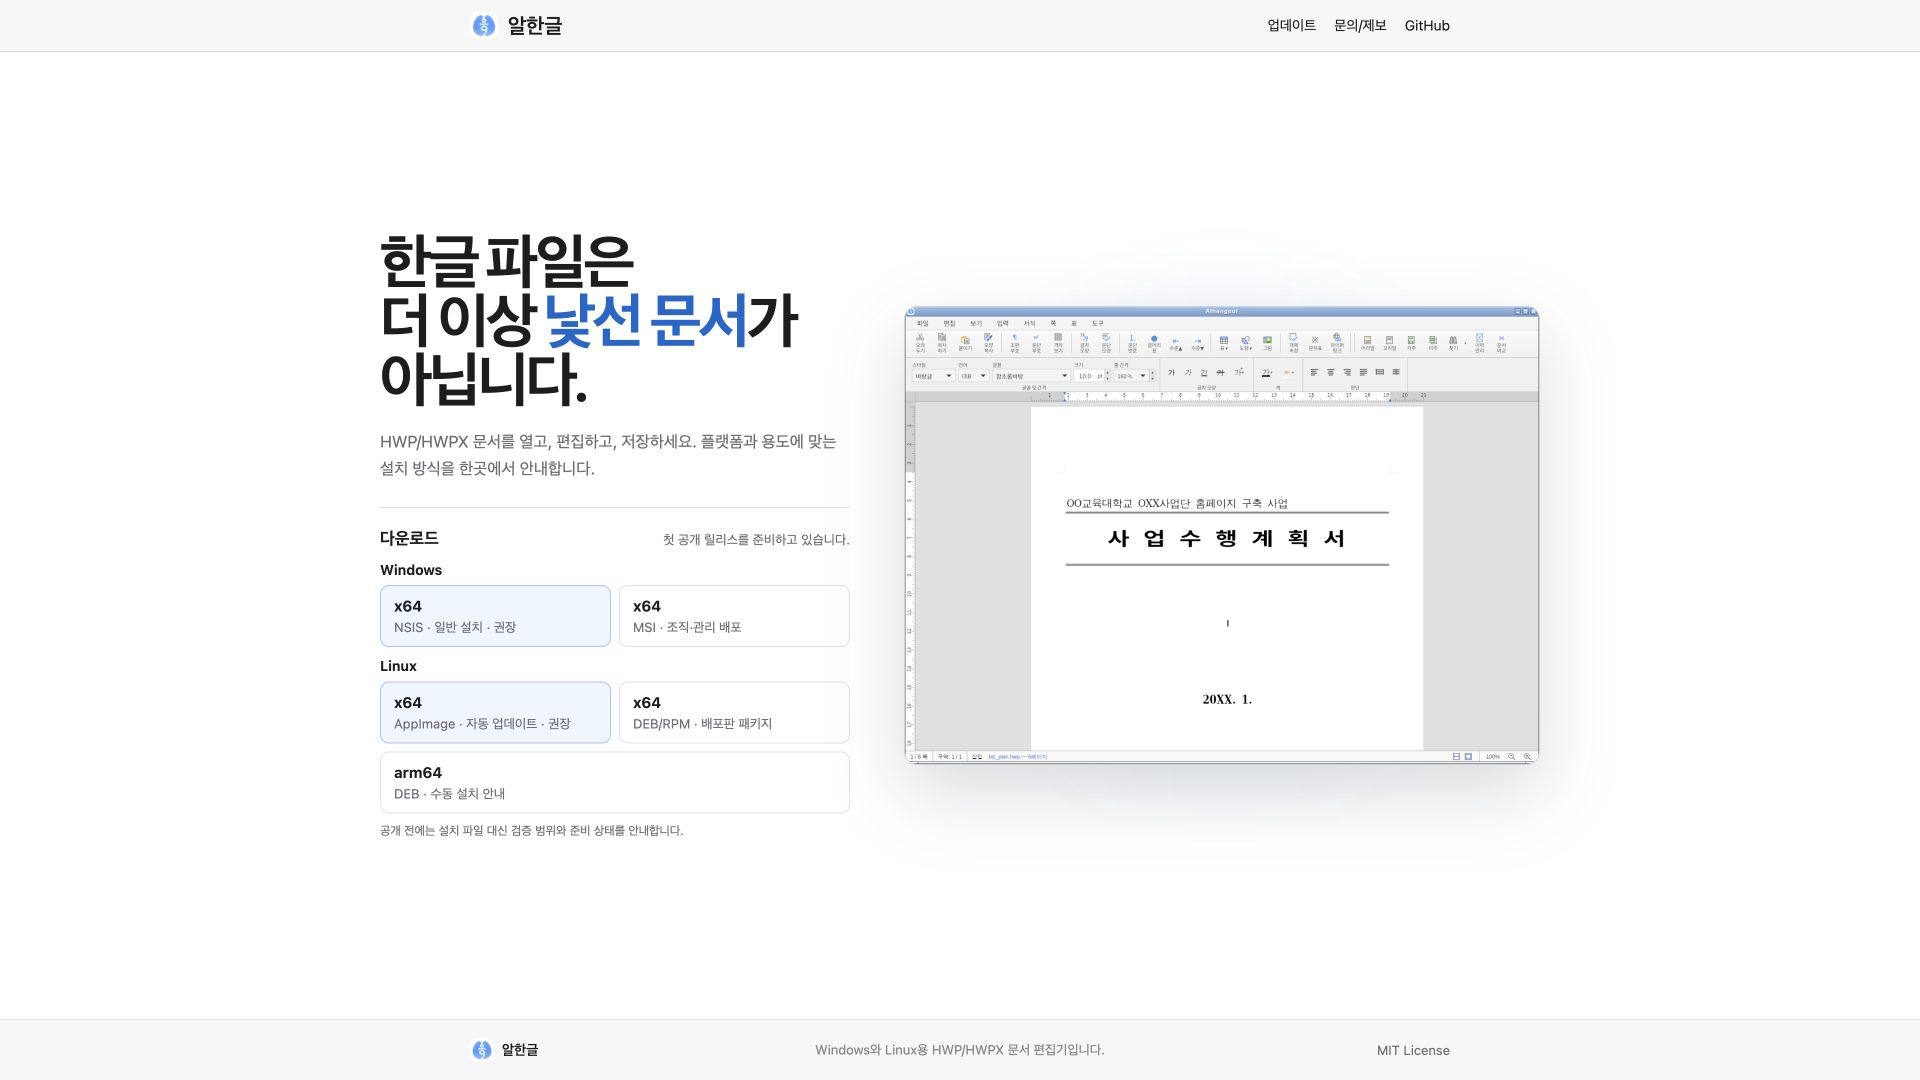
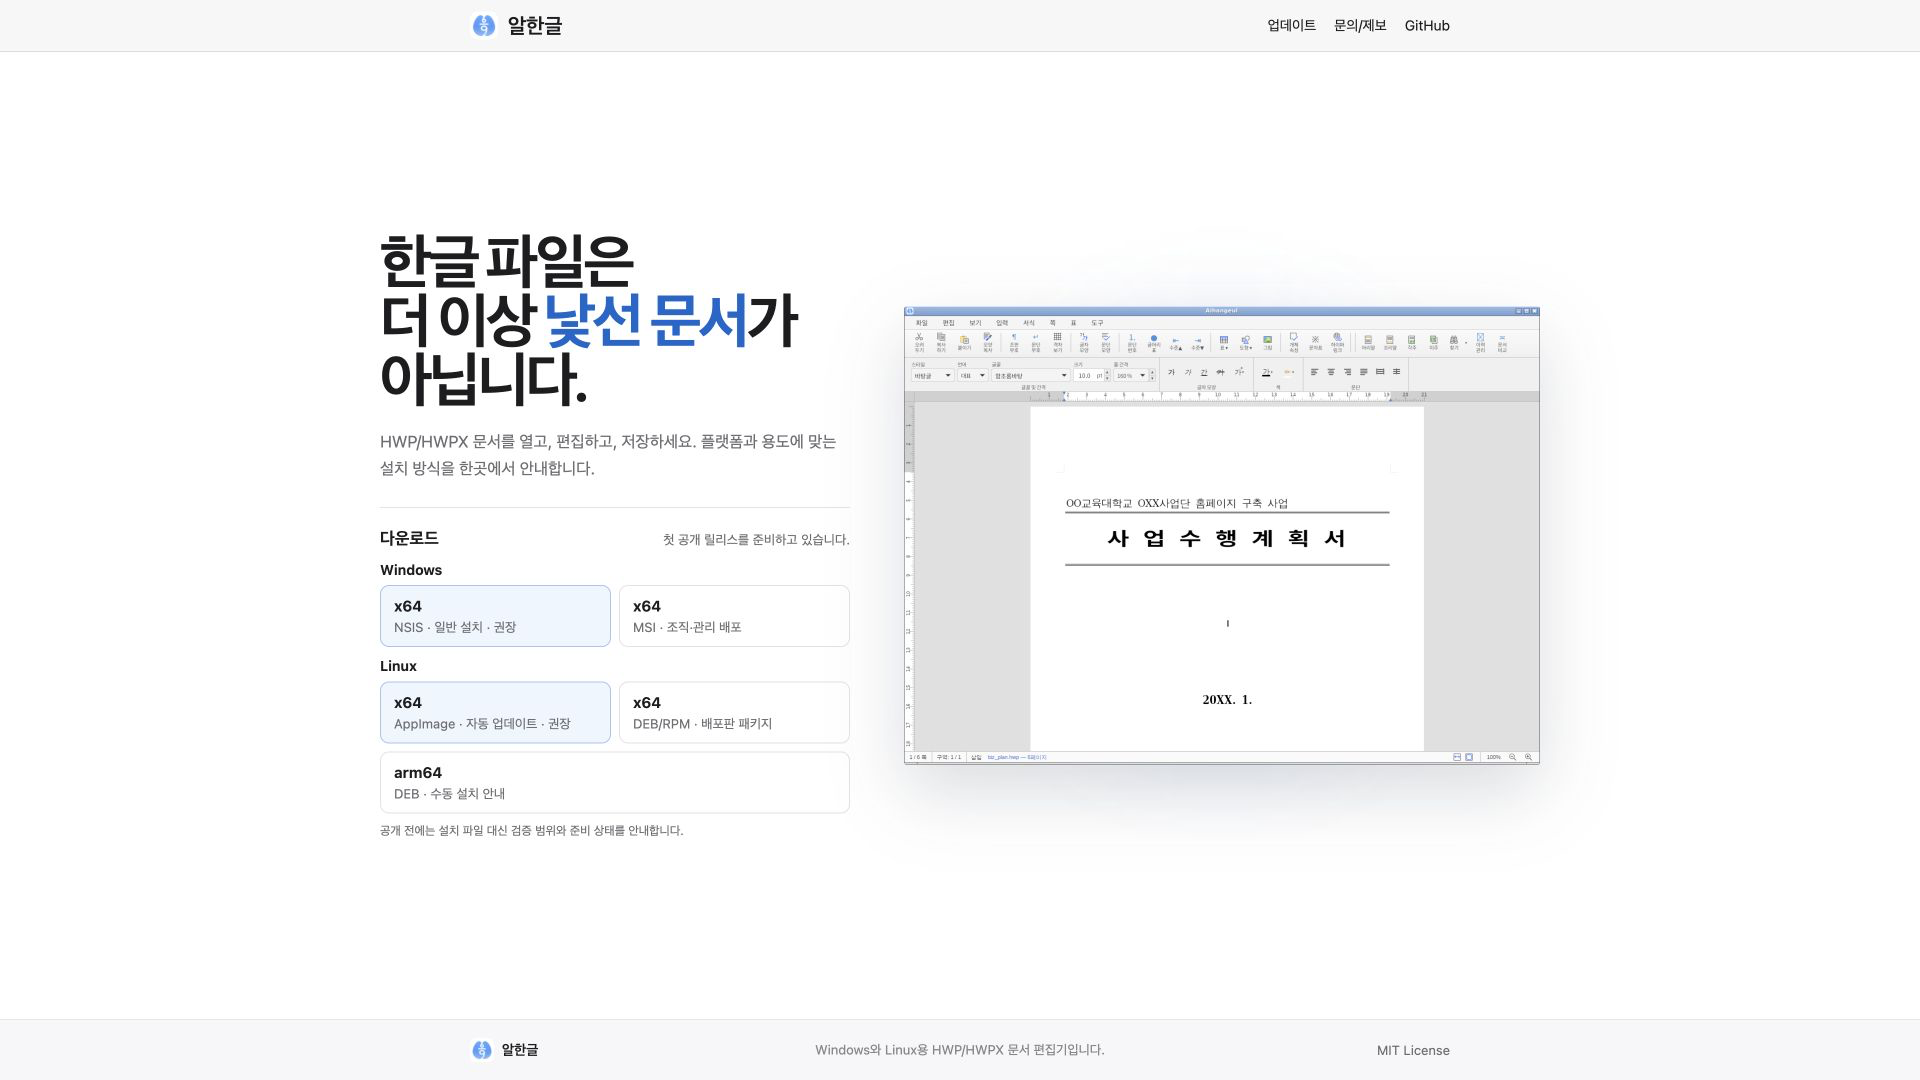
Task #45 [Stage 3.9]: 네이티브 창 테두리 보정

Changed region(s): [[0.4688, 0.6722, 0.7812, 0.7333], [0.4688, 0.275, 0.5312, 0.3361], [0.7812, 0.275, 0.8125, 0.3056]]

diff --git a/site/index.html b/site/index.html
@@ -16,7 +16,7 @@
         <meta name="twitter:card" content="summary_large_image" />
         <link rel="canonical" href="https://postmelee.github.io/alhangeul-tauri/" />
         <link rel="icon" href="../assets/logo/favicon.ico" />
-        <link rel="stylesheet" href="styles.css?v=45-3-8" />
+        <link rel="stylesheet" href="styles.css?v=45-3-9" />
         <script src="script.js" defer></script>
     </head>
     <body class="home-page" data-site-root="./">
@@ -74,7 +74,7 @@
                 <figure class="home-product page-enter" aria-label="실제 알한글 편집 화면">
                     <div class="product-glow" aria-hidden="true"></div>
                     <div class="product-window">
-                        <img src="assets/linux-editor.png?v=45-3-8" alt="Linux 네이티브 창에서 HWP 문서를 연 실제 알한글 편집 화면" width="1282" height="924" />
+                        <img src="assets/linux-editor.png?v=45-3-9" alt="Linux 네이티브 창에서 HWP 문서를 연 실제 알한글 편집 화면" width="1282" height="924" />
                     </div>
                 </figure>
             </section>

diff --git a/site/styles.css b/site/styles.css
@@ -58,7 +58,7 @@ button { font: inherit; }
 .install-note { margin: 9px 0 0; color: var(--muted); font-size: 12px; line-height: 1.4; }
 .home-product { position: relative; display: flex; min-width: 0; height: min(650px, 76vh); align-items: center; justify-content: center; margin: 0; }
 .product-glow { position: absolute; inset: 8% 0; border-radius: 50%; background: radial-gradient(circle, rgba(0, 102, 204, 0.18), transparent 68%); filter: blur(28px); }
-.product-window { position: relative; z-index: 1; width: 100%; overflow: hidden; border: 1px solid #cfd2d8; border-radius: 13px; background: white; box-shadow: 0 28px 70px rgba(34, 46, 67, 0.17); }
+.product-window { position: relative; z-index: 1; width: 100%; overflow: hidden; border: 0; border-radius: 2px; background: white; box-shadow: 0 28px 70px rgba(34, 46, 67, 0.17); }
 .product-window img { width: 100%; height: auto; }
 .page-enter { animation: page-enter var(--standard) var(--ease) both; }
 .home-product.page-enter { animation-delay: 60ms; }

diff --git a/site/feedback/index.html b/site/feedback/index.html
@@ -10,7 +10,7 @@
         <meta property="og:image" content="https://postmelee.github.io/alhangeul-tauri/assets/og-main.png" />
         <link rel="canonical" href="https://postmelee.github.io/alhangeul-tauri/feedback/" />
         <link rel="icon" href="../../assets/logo/favicon.ico" />
-        <link rel="stylesheet" href="../styles.css?v=45-3-8" />
+        <link rel="stylesheet" href="../styles.css?v=45-3-9" />
         <script src="../script.js" defer></script>
     </head>
     <body data-site-root="../">

diff --git a/site/updates/index.html b/site/updates/index.html
@@ -10,7 +10,7 @@
         <meta property="og:image" content="https://postmelee.github.io/alhangeul-tauri/assets/og-main.png" />
         <link rel="canonical" href="https://postmelee.github.io/alhangeul-tauri/updates/" />
         <link rel="icon" href="../../assets/logo/favicon.ico" />
-        <link rel="stylesheet" href="../styles.css?v=45-3-8" />
+        <link rel="stylesheet" href="../styles.css?v=45-3-9" />
         <script src="../script.js" defer></script>
     </head>
     <body data-site-root="../">

diff --git a/mydocs/orders/20260828.md b/mydocs/orders/20260828.md
@@ -4,5 +4,5 @@
 
 | Issue | 타스크 | 상태 | 비고 |
 |------|--------|------|------|
-| #45 | Windows/Linux 릴리스·업데이트용 GitHub Pages 재구성 | 진행중 | Stage 3.8 네이티브 전체 창 대표 화면 보정 완료, Stage 4 승인 대기 |
+| #45 | Windows/Linux 릴리스·업데이트용 GitHub Pages 재구성 | 진행중 | Stage 3.9 네이티브 창 테두리 보정 완료, Stage 4 승인 대기 |
 | #16 | MSI·NSIS·AppImage updater 도입 | 예정 | #45 URL 계약 확정 뒤 task-start 승인 대기 |
